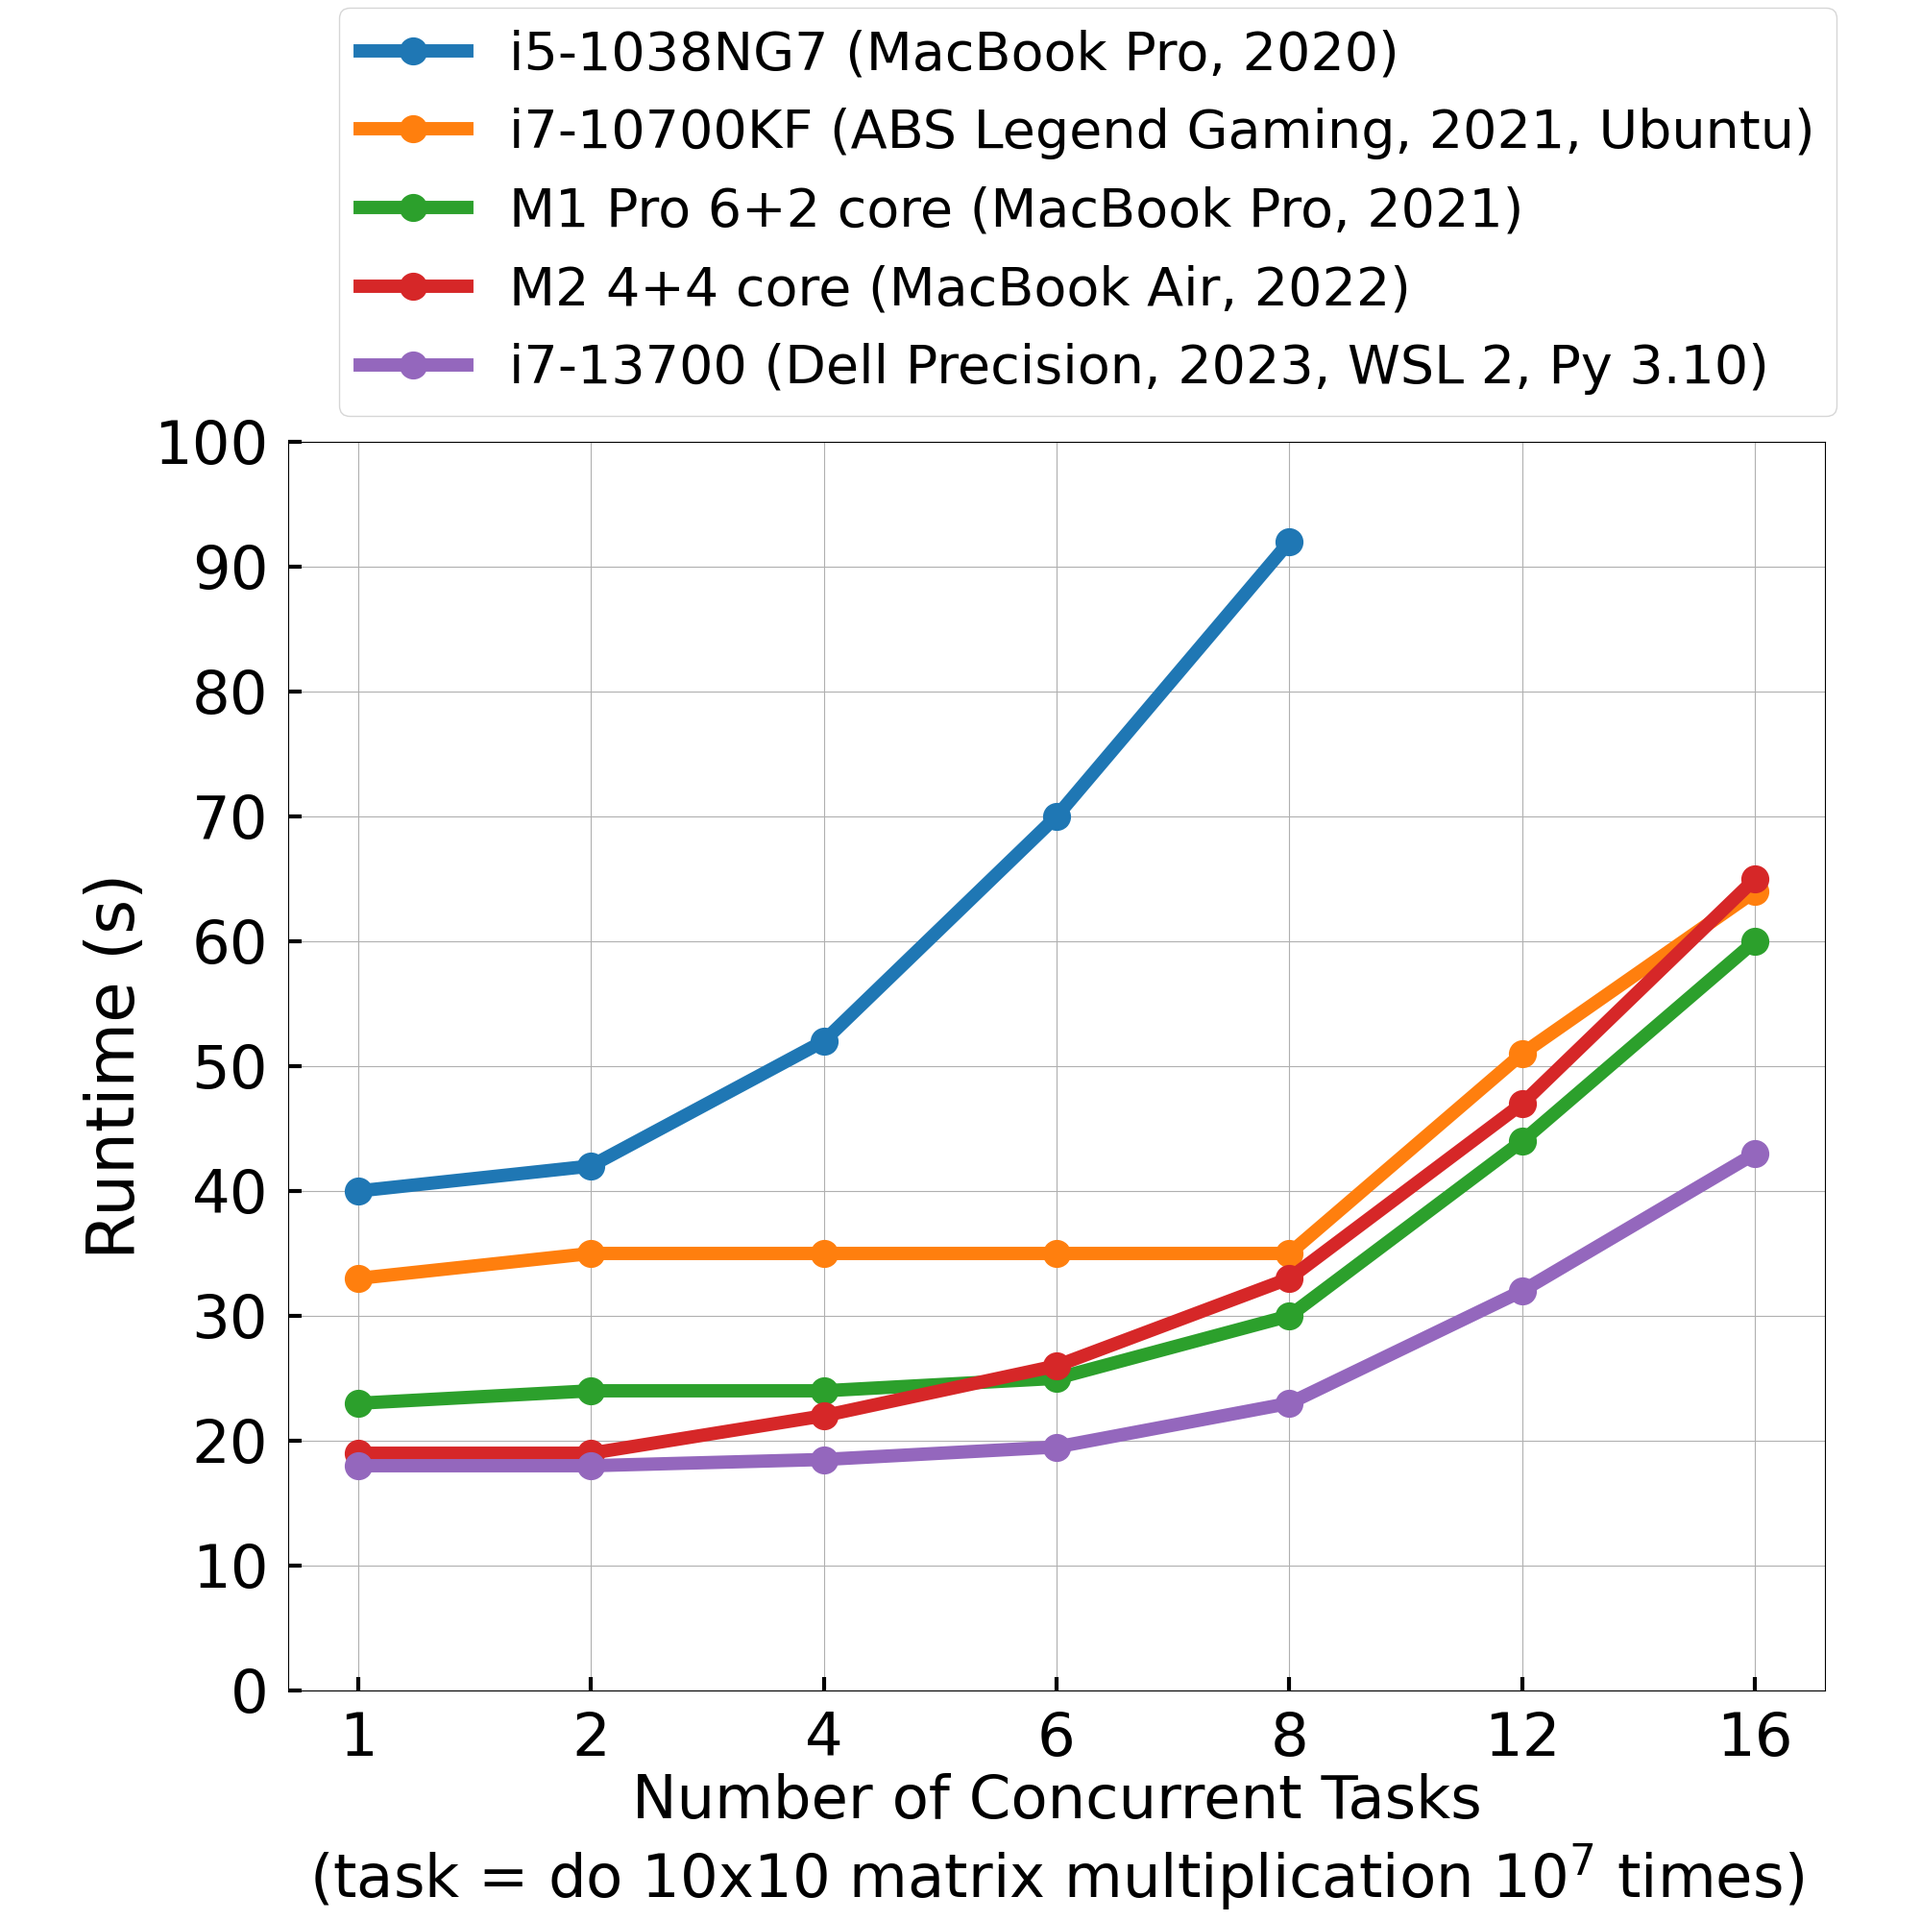
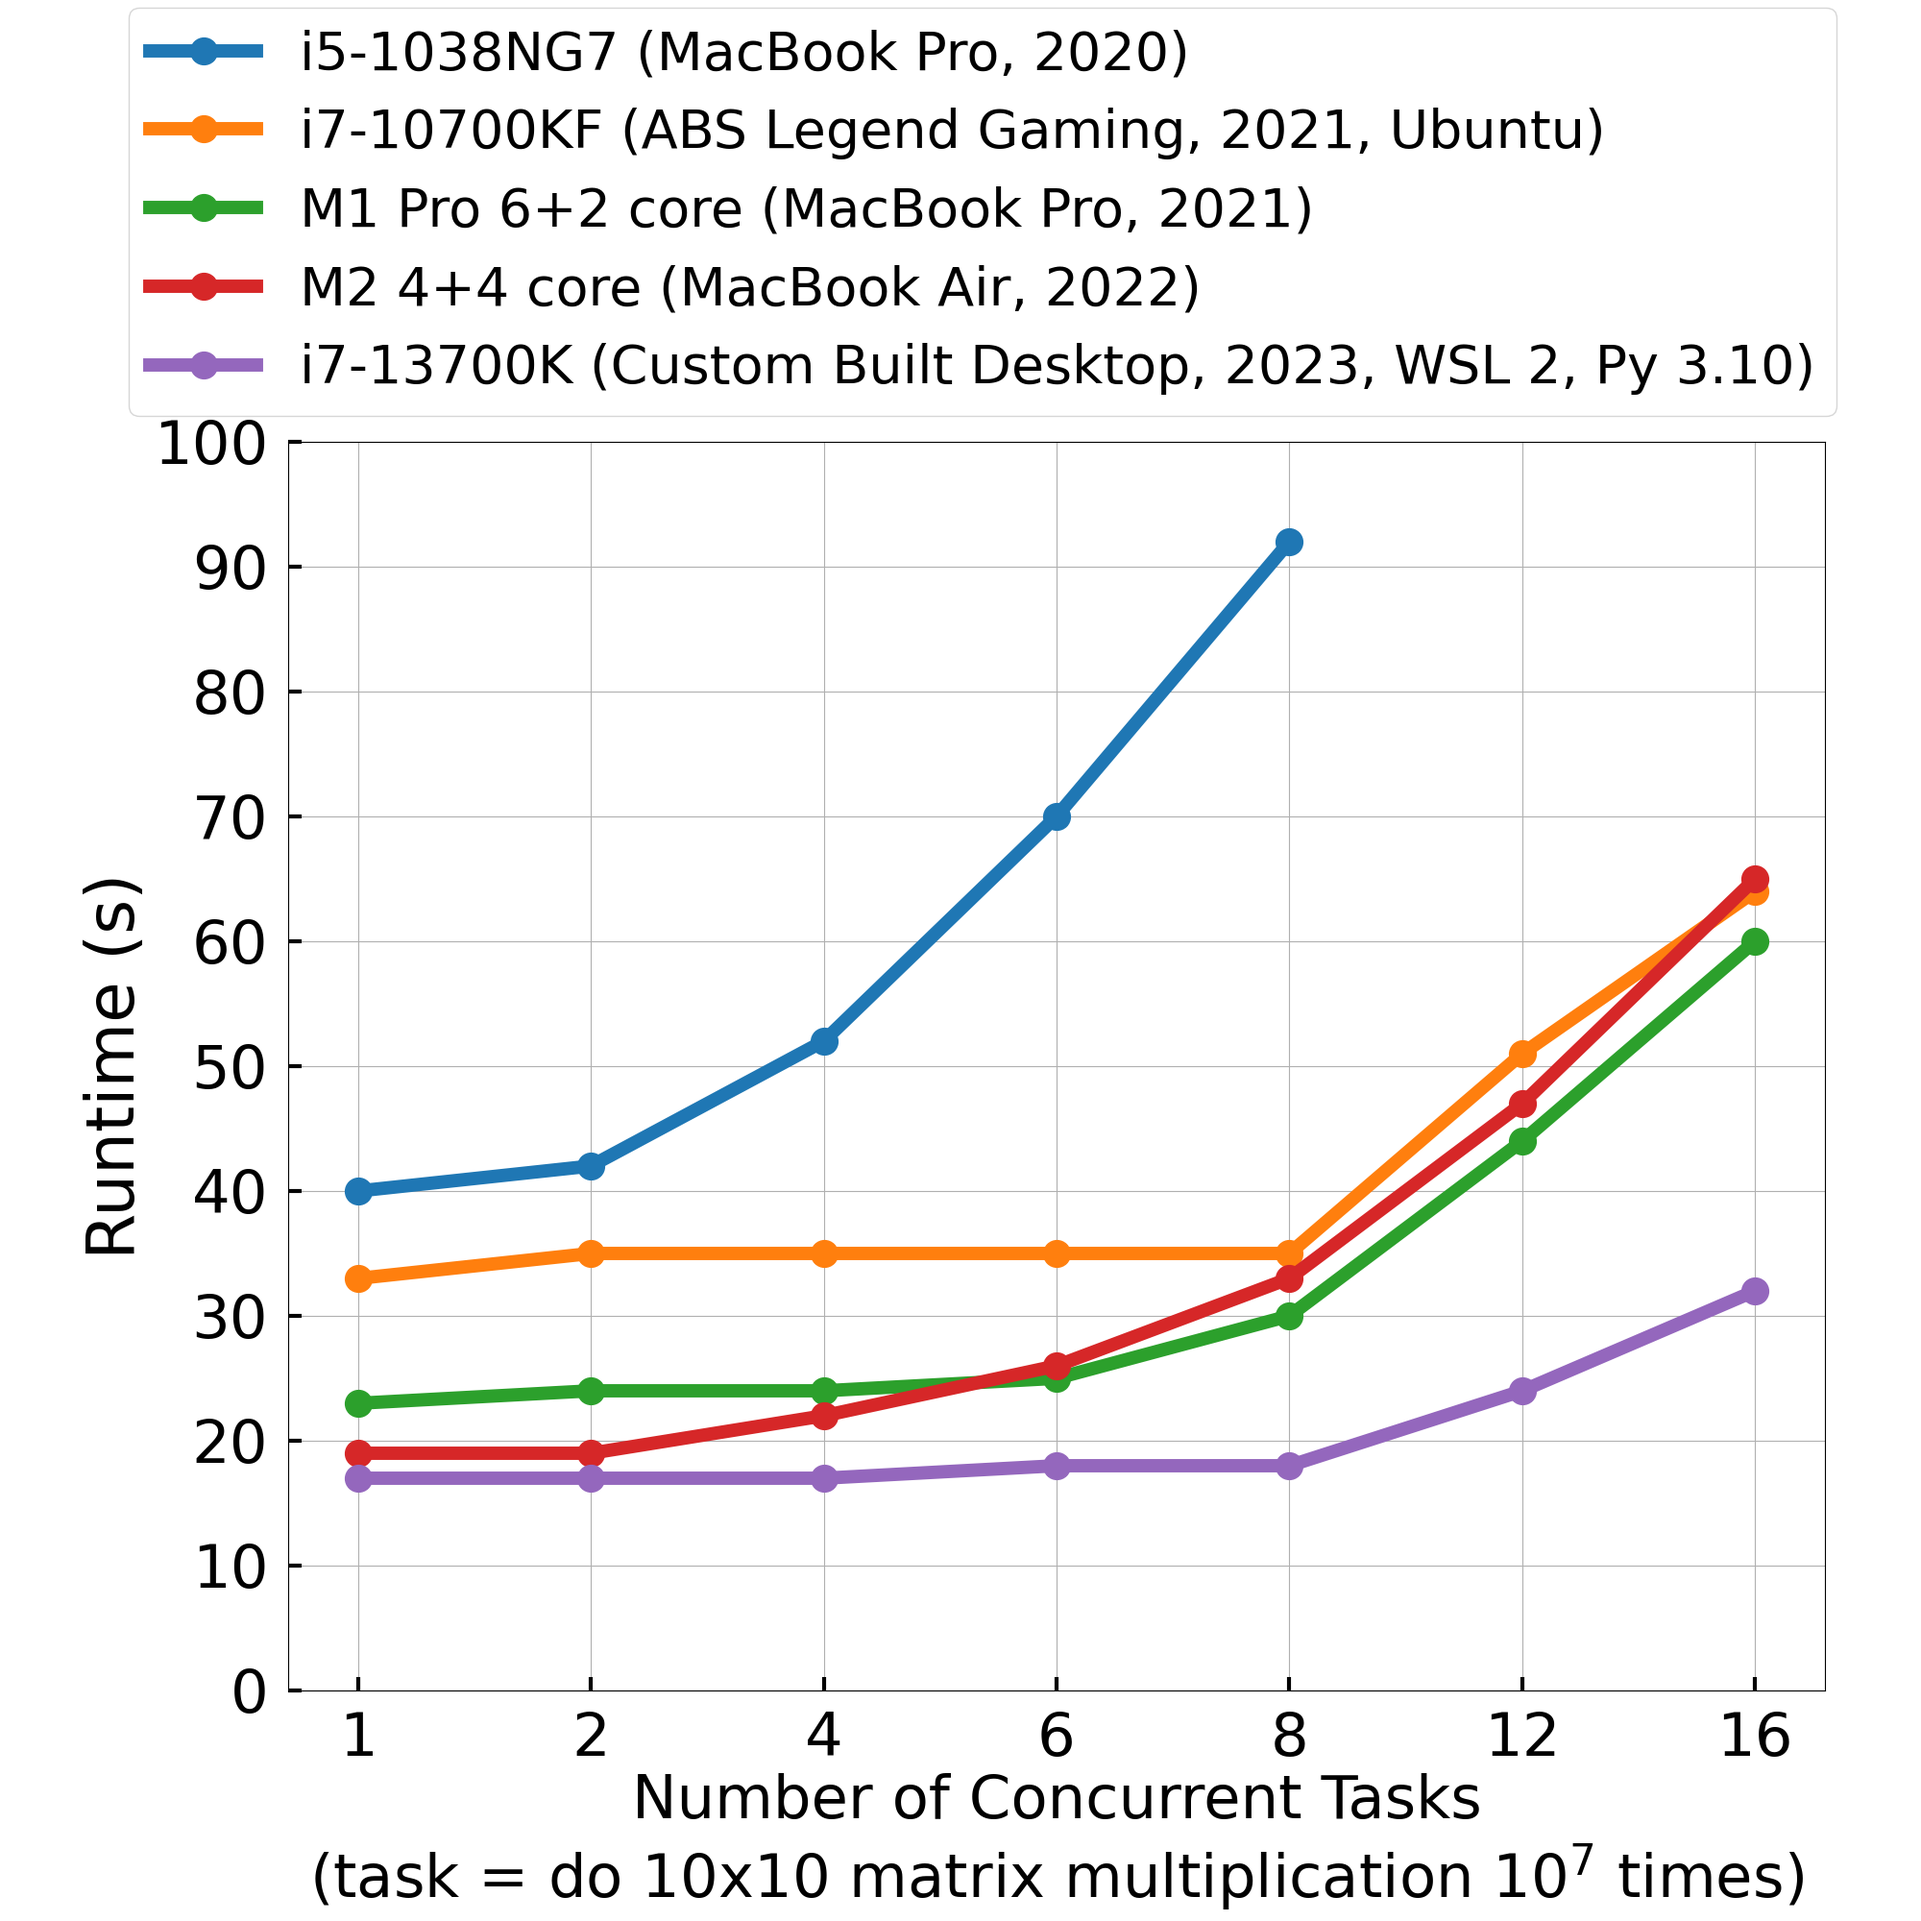
add datapoint for i7-13700k

diff --git a/plot.py b/plot.py
@@ -8,7 +8,7 @@ def plot():
     y3 = [33, 35, 35,   35,   35,   51,   64]    # i7-10700KF
     y4 = [23, 24, 24,   25,   30,   44,   60]    # M1 Pro (6 + 2)
     y5 = [19, 19, 22,   26,   33,   47,   65]    # M2 (4 + 4)
-    y6 = [18, 18, 18.5, 19.5, 23,   32,   43]    # i7-13700 (8 + 8)
+    y6 = [17, 17, 17,   18,   18,   24,   32]    # i7-13700K (8 + 8)
 
     plt.rcParams['font.size'] = 45
     plt.rcParams['lines.linewidth'] = 10
@@ -19,7 +19,7 @@ def plot():
     ax.plot(np.arange(len(y3)), y3, marker='o', markersize=20, label='i7-10700KF (ABS Legend Gaming, 2021, Ubuntu)')
     ax.plot(np.arange(len(y4)), y4, marker='o', markersize=20, label='M1 Pro 6+2 core (MacBook Pro, 2021)')
     ax.plot(np.arange(len(y5)), y5, marker='o', markersize=20, label='M2 4+4 core (MacBook Air, 2022)')
-    ax.plot(np.arange(len(y6)), y6, marker='o', markersize=20, label='i7-13700 (Dell Precision, 2023, WSL 2, Py 3.10)')
+    ax.plot(np.arange(len(y6)), y6, marker='o', markersize=20, label='i7-13700K (Custom Built Desktop, 2023, WSL 2, Py 3.10)')
     fig.legend(ncol=1, fontsize=40, bbox_to_anchor=(0.97, 1.01))
     ax.grid()
     ax.set_xticks(np.arange(len(X)))
